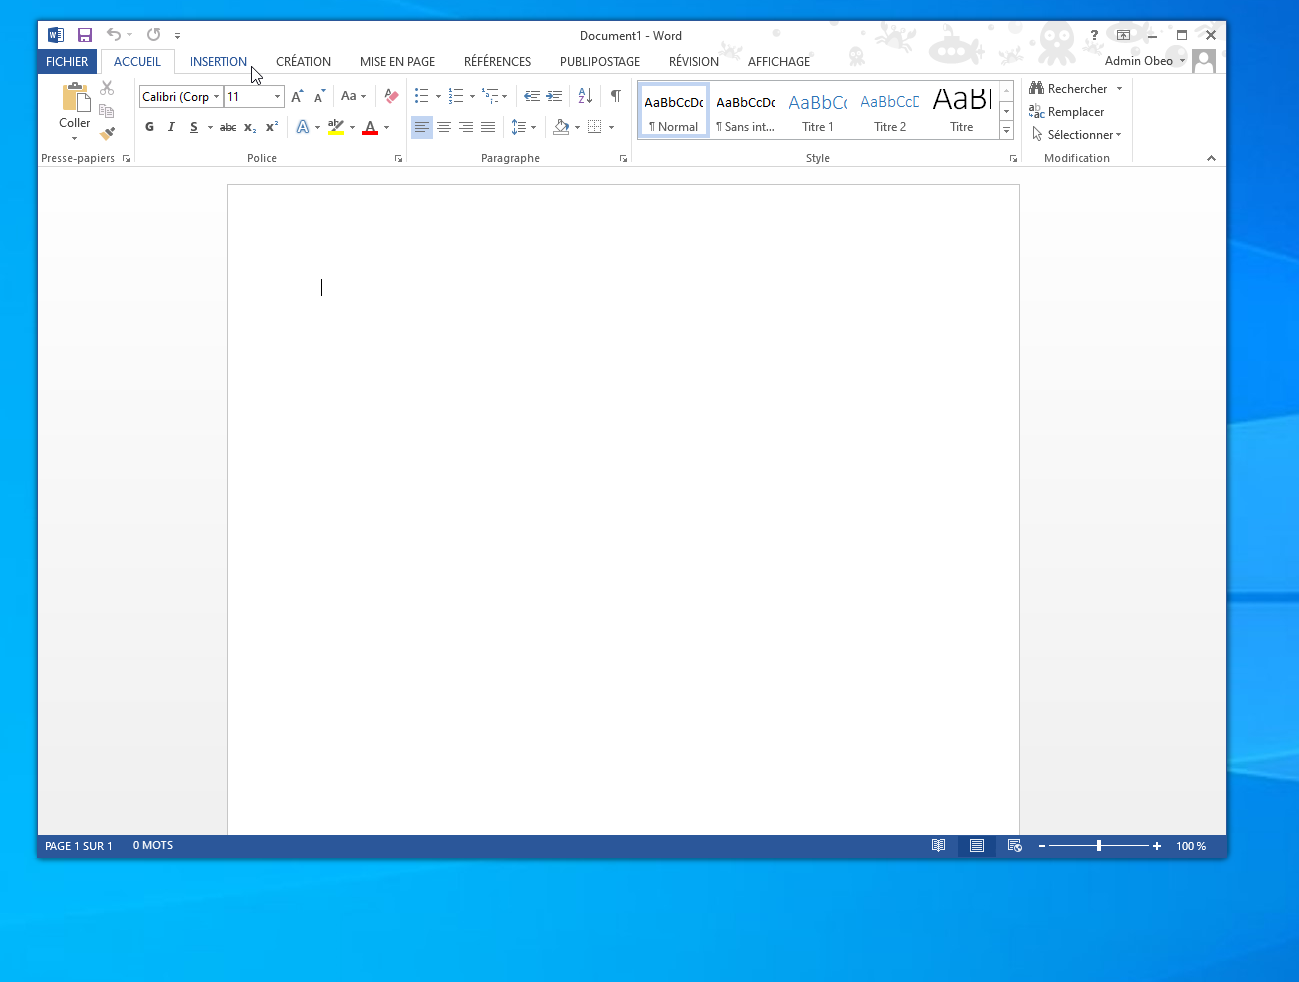
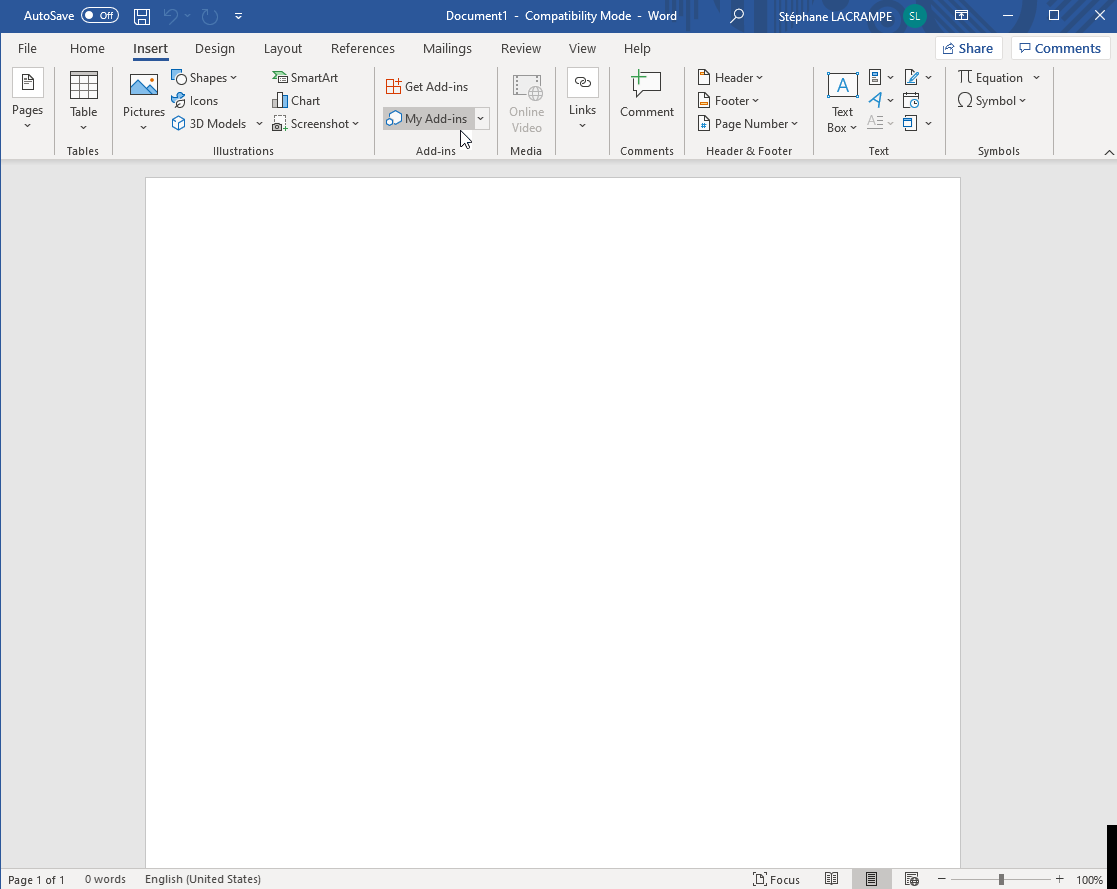
Updated add-in installation guide with english screenshots.

Changed region(s): [[0.0, 0.0, 1.0, 1.0]]

diff --git a/ref-doc/nightly/index.md b/ref-doc/nightly/index.md
@@ -283,57 +283,57 @@ Click on the share button:
 
 ![MS Word add-in.]({{page.relativePath}}/ref-doc/nightly/images/Add-in%20Installation05.png "MS Word add-in.")
 
-Select your user name or the list of user to share the folder with:
+Select your user name or the list of user to share the folder with and click the share button:
 
 ![MS Word add-in.]({{page.relativePath}}/ref-doc/nightly/images/Add-in%20Installation06.png "MS Word add-in.")
 
 ![MS Word add-in.]({{page.relativePath}}/ref-doc/nightly/images/Add-in%20Installation07.png "MS Word add-in.")
 
-Click the share button:
+Click the done button:
 
 ![MS Word add-in.]({{page.relativePath}}/ref-doc/nightly/images/Add-in%20Installation08.png "MS Word add-in.")
 
-Click the finish button:
+Copy the shared path, we will need it later:
 
 ![MS Word add-in.]({{page.relativePath}}/ref-doc/nightly/images/Add-in%20Installation09.png "MS Word add-in.")
 
-Copy the shared path, we will need it later:
+Click close:
 
 ![MS Word add-in.]({{page.relativePath}}/ref-doc/nightly/images/Add-in%20Installation10.png "MS Word add-in.")
 
-Click finish:
+We are almost there, the last step is to load the add-in into MS Word, click file menu:
 
 ![MS Word add-in.]({{page.relativePath}}/ref-doc/nightly/images/Add-in%20Installation11.png "MS Word add-in.")
 
-We are almost there, the last step is to load the add-in into MS Word, click file menu:
+Click the options menu:
 
 ![MS Word add-in.]({{page.relativePath}}/ref-doc/nightly/images/Add-in%20Installation12.png "MS Word add-in.")
 
-Click the options menu:
+Select the trust center:
 
 ![MS Word add-in.]({{page.relativePath}}/ref-doc/nightly/images/Add-in%20Installation13.png "MS Word add-in.")
 
-Click the privacy management center:
+Click the trust center settings button:
 
 ![MS Word add-in.]({{page.relativePath}}/ref-doc/nightly/images/Add-in%20Installation14.png "MS Word add-in.")
 
-Click the privacy management center parameters button:
+Click the trusted add-in catalogs:
 
 ![MS Word add-in.]({{page.relativePath}}/ref-doc/nightly/images/Add-in%20Installation15.png "MS Word add-in.")
 
-Click the aprouved application catalogs:
+Past the network share path:
 
 ![MS Word add-in.]({{page.relativePath}}/ref-doc/nightly/images/Add-in%20Installation16.png "MS Word add-in.")
 
-Past the network share path:
+Click the add catalog button:
 
 ![MS Word add-in.]({{page.relativePath}}/ref-doc/nightly/images/Add-in%20Installation17.png "MS Word add-in.")
 
-Click the add catalog button:
+Check the checkbox so the shared folder appears in the list of applications:
 
 ![MS Word add-in.]({{page.relativePath}}/ref-doc/nightly/images/Add-in%20Installation18.png "MS Word add-in.")
 
-Check the checkbox so the shared folder appears in the list of applications:
+Click the OK button:
 
 ![MS Word add-in.]({{page.relativePath}}/ref-doc/nightly/images/Add-in%20Installation19.png "MS Word add-in.")
 
@@ -345,29 +345,31 @@ Click the OK button:
 
 ![MS Word add-in.]({{page.relativePath}}/ref-doc/nightly/images/Add-in%20Installation21.png "MS Word add-in.")
 
-Click the OK button:
+Restart MS Word:
 
 ![MS Word add-in.]({{page.relativePath}}/ref-doc/nightly/images/Add-in%20Installation22.png "MS Word add-in.")
 
-Restart MS Word:
+Select the insert menu:
 
 ![MS Word add-in.]({{page.relativePath}}/ref-doc/nightly/images/Add-in%20Installation23.png "MS Word add-in.")
 
-Select the insertion menu:
+Click on the My add-ins menu:
 
 ![MS Word add-in.]({{page.relativePath}}/ref-doc/nightly/images/Add-in%20Installation24.png "MS Word add-in.")
 
-Click on the My applications menu:
+Select the shared folder tab:
 
 ![MS Word add-in.]({{page.relativePath}}/ref-doc/nightly/images/Add-in%20Installation25.png "MS Word add-in.")
 
-Select the shared folder tab:
+Select the M2Doc add-in (NOTE: the back end should be running at this point):
 
 ![MS Word add-in.]({{page.relativePath}}/ref-doc/nightly/images/Add-in%20Installation26.png "MS Word add-in.")
 
-Select the M2Doc add-in (NOTE: the back end should be running at this point):
+Click on show M2Doc taskpane:
 
 ![MS Word add-in.]({{page.relativePath}}/ref-doc/nightly/images/Add-in%20Installation27.png "MS Word add-in.")
+
+At this point you might encounter this message "We can't open this add-in from localhost". Please check the [MS Word documentation](https://docs.microsoft.com/en-us/office/troubleshoot/office-suite-issues/cannot-open-add-in-from-localhost).
 
 The following panel should open:
 
